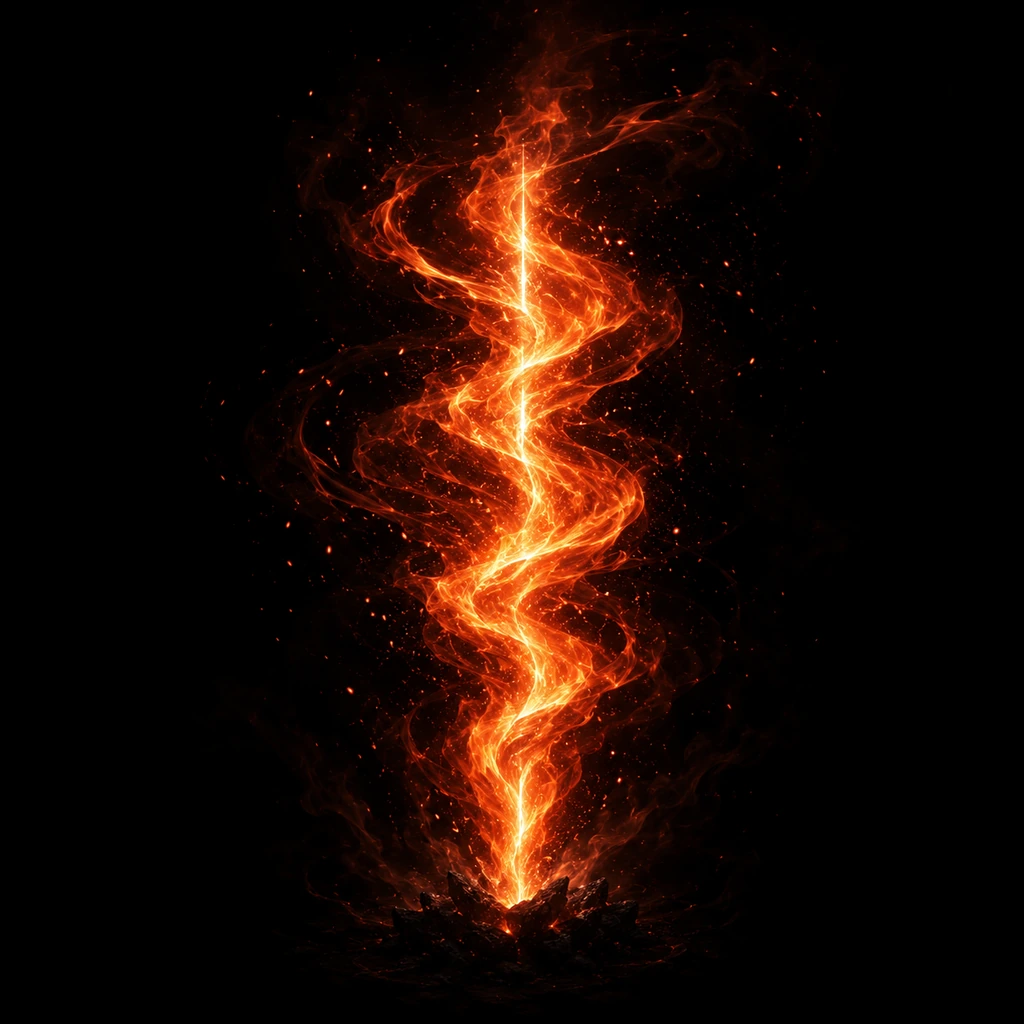
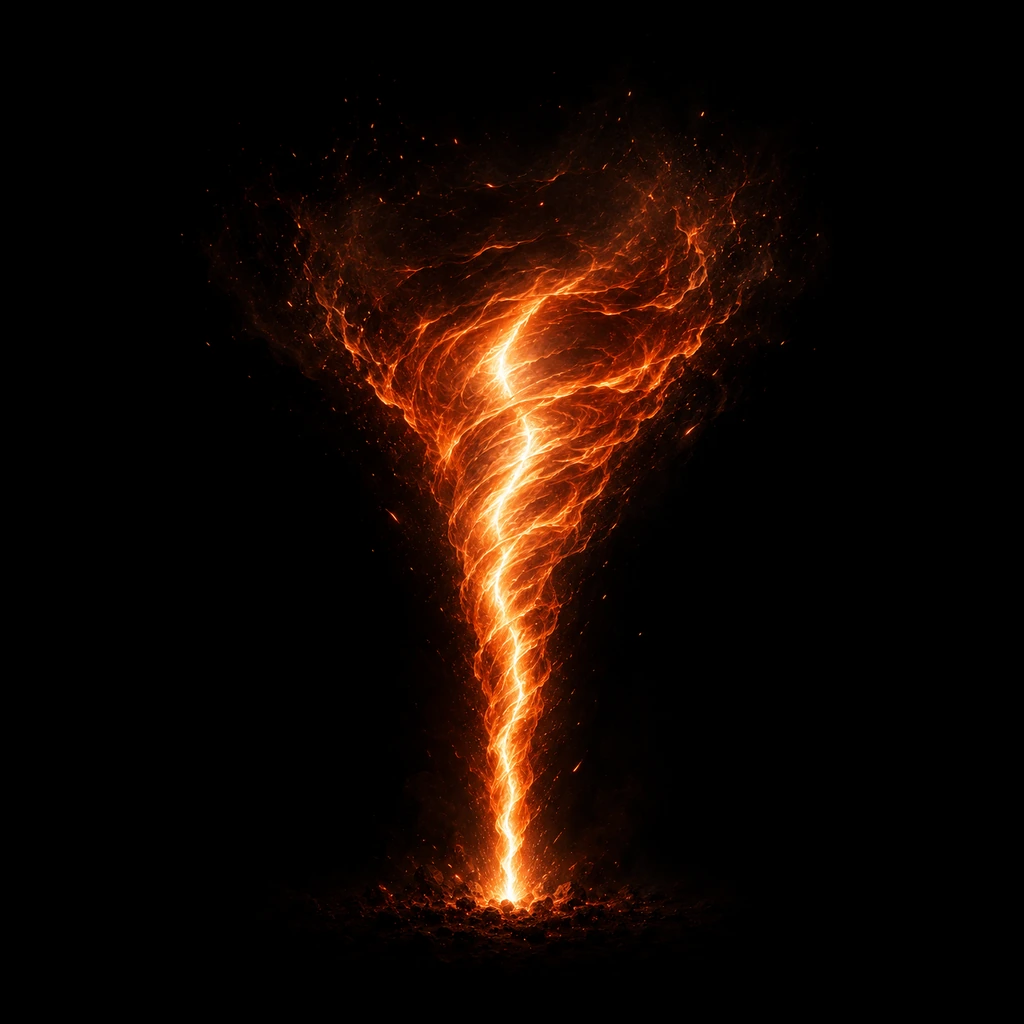
Feuersturm als Trichter (8 von 21)
Dritte Fassung: schmaler Fuss, oben offene Krone. Gemessen Krone 62 % der
Bildbreite gegen Fuss 27 %; die Lichtwerte sind mit 21,9 % gegenueber 20,3 %
praktisch unveraendert — die drei Fassungen unterscheiden sich rein geometrisch.

Der Prompt-Satz, der es geloest hat, war eine OBERGRENZE ("crown opens to about
half the frame width"). Ohne so eine Grenze fuellt ein solches Motiv immer das
ganze Bild: die Zwischenfassung hatte 72 % Kronenbreite und Truemmer bis in alle
vier Ecken, und der Trichter ging in der Unruhe unter.

Claude-Session: https://claude.ai/code/session_01JczgaueG64JcvMWfpByxWQ

Changed region(s): [[0.25, 0.0, 0.7812, 0.9375], [0.3125, 0.125, 0.3438, 0.1562]]

diff --git a/docs/art/skills/README.md b/docs/art/skills/README.md
@@ -164,7 +164,7 @@ Silhouetten-Matrix und Messwerte; Zielbild ist die Blitz-Referenz (Leuchtfläche
 |---|---|---|---|---|---|
 | Glut | `SK_FIRE_01` | Glutbett, das aufatmet | flaches Band unten | 28,1 % | 1,39 |
 | Zunder | `SK_FIRE_02` | Funkenschlag an dunklem Stein | Funkenfächer | 18,5 % | 2,33 |
-| Feuersturm | `SK_FIRE_03` | gedrehte Feuersäule mit weißem Kern | Wirbel | 20,3 % | 2,34 |
+| Feuersturm | `SK_FIRE_03` | Feuertrichter, oben offen | Trichter (Krone 62 %, Fuß 27 %) | 21,9 % | 2,35 |
 | Glutbett | `SK_FIRE_04` | aufgebrochener Brocken, Kohlen im Spalt | Brocken mit Diagonalspalt | 20,7 % | 2,10 |
 | Rückzündung | `SK_FIRE_05` | Stichflamme aus sterbender Glut | senkrechter Strahl | 10,0 % | 3,37 |
 | Glühende Klinge | `SK_FIRE_06` | glühend geschmiedete Klinge | Klinge, diagonal | 25,0 % | 2,19 |
@@ -197,7 +197,15 @@ erkennbar. `04` Glutbett brauchte **drei Anläufe**, und alle drei sind lehrreic
 
 Endstand: 20,7 % Fläche, Streuung 2,10 — halb so viel Licht wie Versuch 1, aber mit Form.
 
+**Feuersturm brauchte drei Fassungen, und keine davon war ein Helligkeitsproblem:** gleichmäßige Säule
+(zu beherrscht) → Trichter mit Trümmern bis in alle vier Ecken (Form ging in der Unruhe unter, Krone 72 %
+der Breite) → Trichter mit gedeckelter Krone. Der Prompt-Satz, der es löste, war eine **Obergrenze**:
+„the crown opens to about half the frame width". Ohne so eine Grenze füllt ein solches Motiv immer das
+ganze Bild. Gemessen: Krone 62 %, Fuß 27 % — und die Lichtwerte sind mit 21,9 % gegen 20,3 % praktisch
+unverändert. Die drei Fassungen unterscheiden sich rein geometrisch.
+
 **Werkzeug-Lehre am Rande:** beim Messen greift das Skript „die neueste Datei". Kommt ein Upload nicht durch,
 misst es damit still das VORHERIGE Bild und speichert es unter dem neuen Namen — einmal passiert und nur
-aufgefallen, weil die Zahlen auf drei Nachkommastellen mit dem Vorgänger übereinstimmten. Seitdem läuft eine
-Gegenprobe gegen den zuletzt gemessenen Wert mit.
+aufgefallen, weil die Zahlen auf drei Nachkommastellen mit dem Vorgänger übereinstimmten. Eine Gegenprobe gegen EINEN Zahlenwert reichte nicht (sie schlug beim
+nächsten Bild wieder fehl); jetzt führt das Skript eine Liste der bereits verarbeiteten Upload-Hashes und
+bricht ab, bevor gemessen wird.
